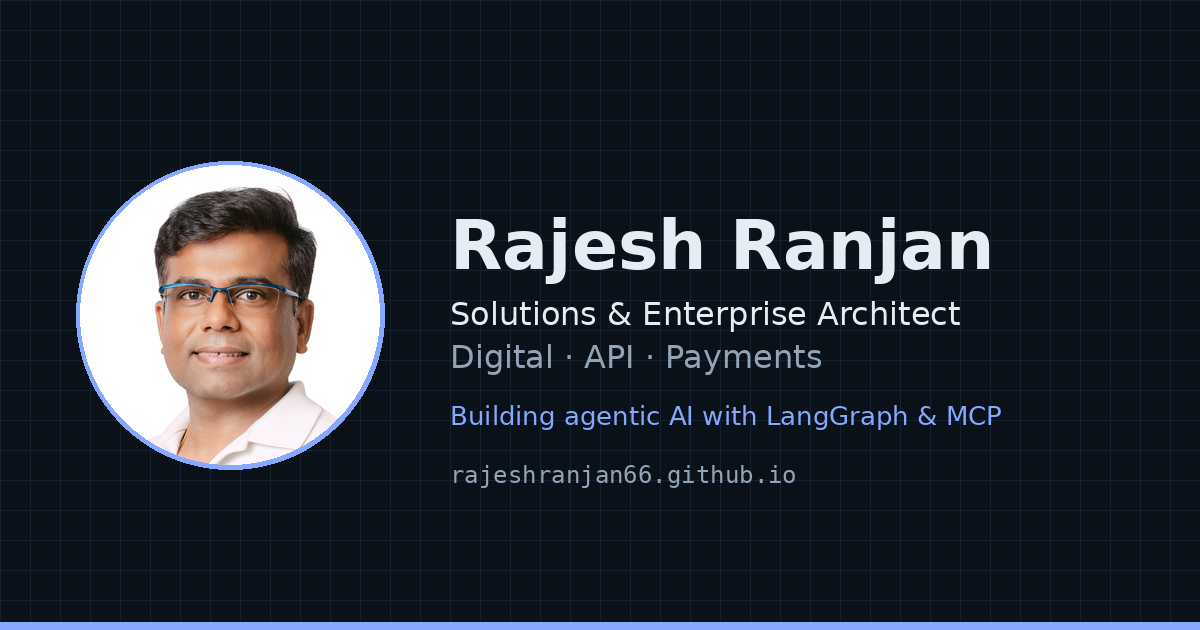
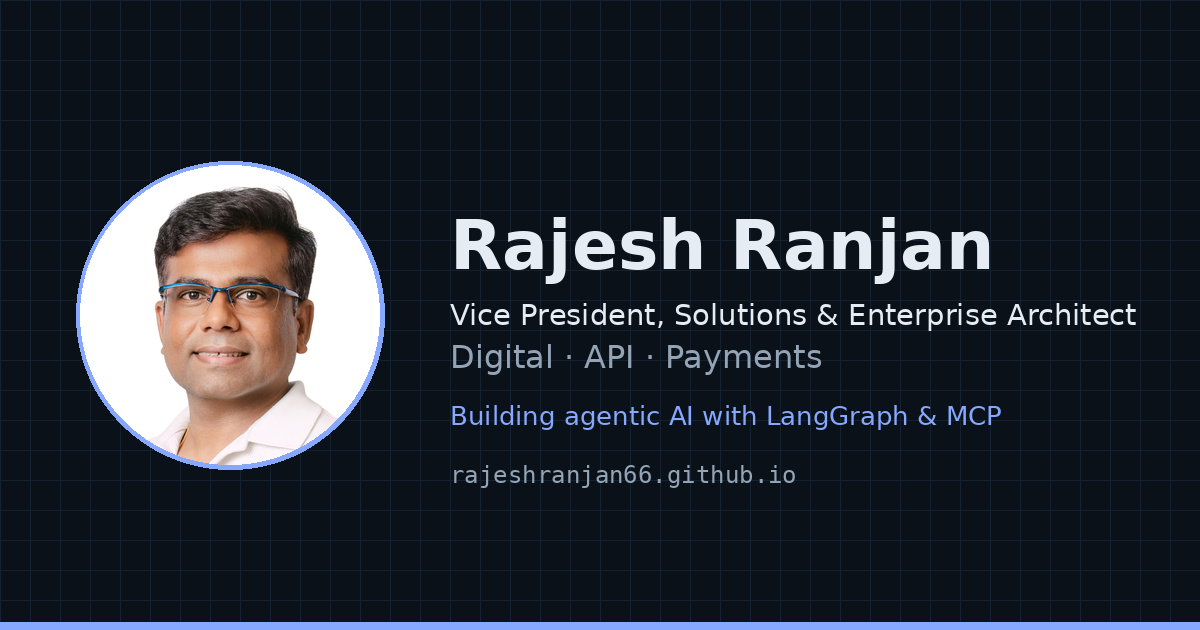
Add Vice President to title line and link preview
Claude-Session: https://claude.ai/code/session_01FAfLGnjSwexodppUcW7vtg

Changed region(s): [[0.37, 0.4825, 0.9558, 0.5429]]

diff --git a/index.html b/index.html
@@ -2,14 +2,14 @@
 <meta name="description" content="Rajesh Ranjan, VP, Solutions & Enterprise Architect at a global bank in Singapore. Digital, API and payments architecture, and agentic AI with MCP.">
 <meta property="og:type" content="website">
 <meta property="og:url" content="https://rajeshranjan66.github.io/">
-<meta property="og:title" content="Rajesh Ranjan · Solutions &amp; Enterprise Architect">
+<meta property="og:title" content="Rajesh Ranjan · Vice President, Solutions &amp; Enterprise Architect">
 <meta property="og:description" content="Digital, API and payments architecture, plus personal agentic AI experiments with LangGraph and MCP.">
 <meta property="og:image" content="https://rajeshranjan66.github.io/og.png">
 <meta property="og:image:width" content="1200">
 <meta property="og:image:height" content="630">
 <meta property="og:image:alt" content="Rajesh Ranjan, Solutions and Enterprise Architect">
 <meta name="twitter:card" content="summary_large_image">
-<meta name="twitter:title" content="Rajesh Ranjan · Solutions &amp; Enterprise Architect">
+<meta name="twitter:title" content="Rajesh Ranjan · Vice President, Solutions &amp; Enterprise Architect">
 <meta name="twitter:description" content="Digital, API and payments architecture, plus personal agentic AI experiments with LangGraph and MCP.">
 <meta name="twitter:image" content="https://rajeshranjan66.github.io/og.png">
 <meta name="theme-color" content="#0A1119">
@@ -340,7 +340,7 @@ footer nav{display:flex;gap:18px;flex-wrap:wrap}
     <div>
       <div class="id">
[1 lines of base64/hex data omitted]
-        <div class="who"><b>Rajesh Ranjan</b>Solutions &amp; Enterprise Architect · Global bank · Singapore
+        <div class="who"><b>Rajesh Ranjan</b>Vice President, Solutions &amp; Enterprise Architect · Global bank · Singapore
         </div>
       </div>
       <h1>Enterprise architect for digital, API and payments, now building <em>agentic AI</em>.</h1>
